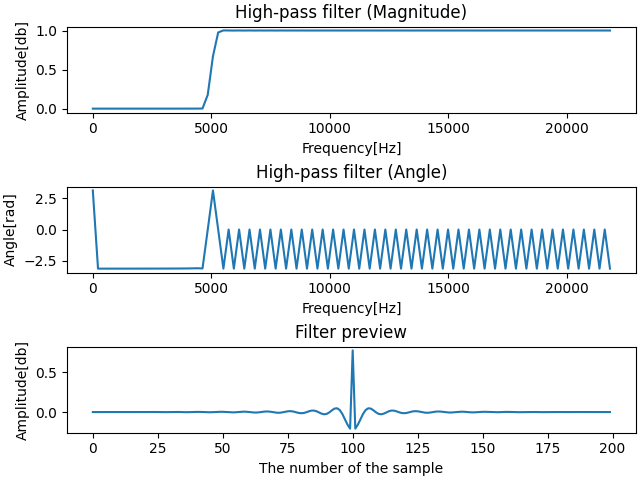
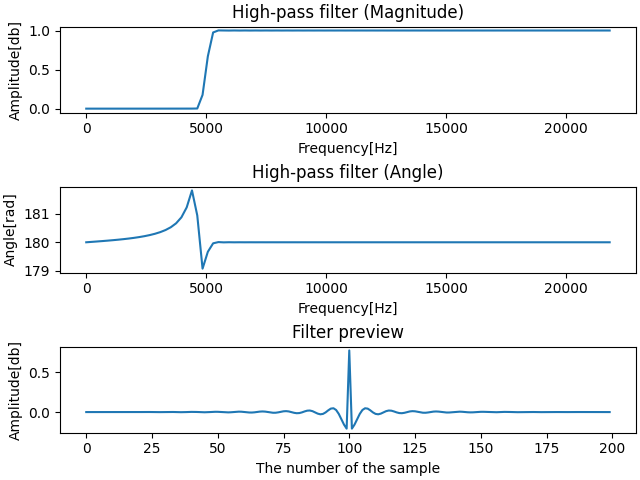
コードの修正

diff --git a/ex2/b4_imamura/main.py b/ex2/b4_imamura/main.py
@@ -79,8 +79,7 @@ def highpass_filer(
     x = np.array([t for t in range(-div_num // 2, div_num // 2)])
     hpf = (np.sinc(x) - np.sinc(cut_off_fq_to_time * x) * cut_off_fq_to_time) * window(
         div_num
-    )  # なんでpiいらん?
-    # hpf = np.sinc(cut_off_fq_to_time * x) * cut_off_fq_to_time * window(div_num)
+    )
     return hpf
 
 
@@ -116,7 +115,7 @@ def main():
     ax2[1].set_xlabel("Frequency[Hz]")
     ax2[1].set_ylabel("Angle[rad]")
     ax2[1].plot(
-        freq[: div_num // 2], np.angle(hpf_fft[: div_num // 2])
+        freq[: div_num // 2], np.unwrap(np.angle(hpf_fft[: div_num // 2]), period=np.pi) * 180 / np.pi
     )  # ハイパスフィルタの位相情報を出力
     ax2[2].set_title("Filter preview")
     ax2[2].set_xlabel("The number of the sample")
